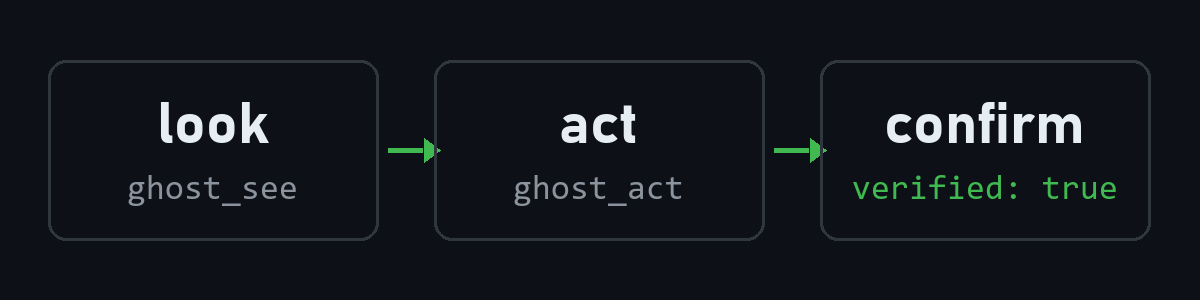
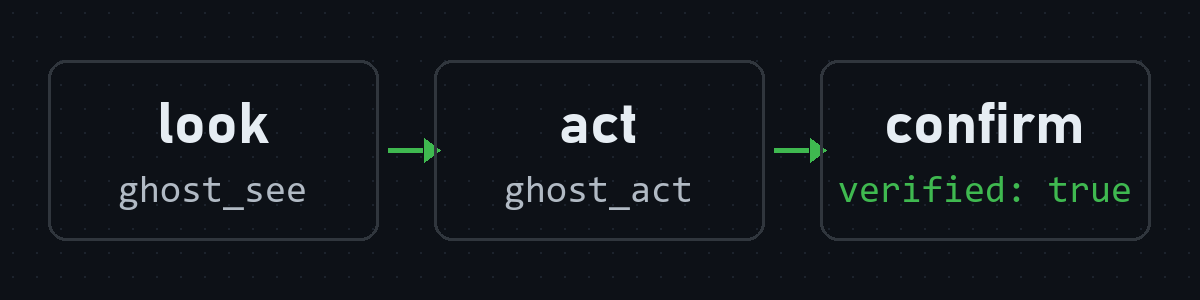
docs(readme): textured panels, hidden-desktop motif, white mark, contrast-stretched title

Changed region(s): [[0.6783, 0.57, 0.9558, 0.69], [0.4008, 0.57, 0.5858, 0.72], [0.0925, 0.6, 0.2775, 0.72]]

diff --git a/scripts/readme-art.py b/scripts/readme-art.py
@@ -10,7 +10,7 @@ The numbers on the proof card come from docs/background-mode.md and
 docs/benchmarks.md; change them there first.
 """
 from pathlib import Path
-from PIL import Image, ImageDraw, ImageFont
+from PIL import Image, ImageDraw, ImageFont, ImageOps
 
 ROOT = Path(__file__).resolve().parent.parent
 BG, BORDER = "#0d1117", "#30363d"
@@ -45,6 +45,35 @@ def mono(size):
     return first_font(["consola.ttf", "DejaVuSansMono.ttf"], size)
 
 
+GRID, DOT = 24, "#1c232d"
+
+
+def textured(w, h):
+    """The panel ground: GitHub dark with a faint dot grid, the texture every
+    piece of README art shares."""
+    im = Image.new("RGB", (w, h), BG)
+    d = ImageDraw.Draw(im)
+    for y in range(GRID // 2, h, GRID):
+        for x in range(GRID // 2, w, GRID):
+            d.rectangle((x, y, x + 1, y + 1), fill=DOT)
+    return im
+
+
+def glyph(size):
+    """The ghost from assets/icon.png, in white, without its square tile."""
+    icon = Image.open(ROOT / "assets/icon.png").convert("RGBA").resize((size, size), Image.LANCZOS)
+    mask = Image.new("L", icon.size, 0)
+    px, mp = icon.load(), mask.load()
+    for y in range(size):
+        for x in range(size):
+            r, g, b, a = px[x, y]
+            # The glyph is the blue part; the tile is near-black.
+            mp[x, y] = a if b > 120 and b > r + 40 else 0
+    white = Image.new("RGBA", icon.size, TEXT)
+    white.putalpha(mask)
+    return white.crop(mask.getbbox())
+
+
 def fit(draw, text, maker, size, width):
     """The largest font from `maker` at or below `size` that fits `width`."""
     while size > 10:
@@ -57,11 +86,19 @@ def fit(draw, text, maker, size, width):
 
 def banner():
     H = 560
-    im = Image.new("RGB", (W, H), BG)
+    im = textured(W, H)
     d = ImageDraw.Draw(im)
-    icon = Image.open(ROOT / "assets/icon.png").convert("RGBA").resize((136, 136), Image.LANCZOS)
-    im.paste(icon, (PAD - 12, PAD - 4), icon)
-    d.text((PAD + 150, PAD + 64), "Ghost", font=display(150), fill=TEXT, anchor="lm")
+    # The hidden desktop: a second window outline behind everything, offset
+    # and faint, where Ghost runs the apps it starts.
+    for dx, col in ((0, "#232b36"), (28, "#1a212b")):
+        x0, y0 = 690 + dx, 40 + dx
+        d.rounded_rectangle((x0, y0, x0 + 440, y0 + 300), radius=14, outline=col, width=3)
+        d.line((x0, y0 + 44, x0 + 440, y0 + 44), fill=col, width=3)
+        for k in range(3):
+            d.ellipse((x0 + 380 - 26 * k, y0 + 16, x0 + 392 - 26 * k, y0 + 28), outline=col, width=3)
+    mark = glyph(190)
+    im.paste(mark, (PAD, PAD + 70 - mark.height // 2), mark)
+    d.text((PAD + mark.width + 26, PAD + 64), "Ghost", font=display(150), fill=TEXT, anchor="lm")
     lines = ["AI agents use the apps on your computer,", "in the background."]
     f = fit(d, lines[0], light, 62, W - 2 * PAD)
     y = 268
@@ -84,7 +121,7 @@ def proof():
     lf = light(words)
     row_h = NUM + 20 + LINE * 2
     H = PAD * 2 + row_h * len(rows) + GAP * (len(rows) - 1)
-    im = Image.new("RGB", (W, H), BG)
+    im = textured(W, H)
     d = ImageDraw.Draw(im)
     big = display(NUM)
     top = PAD
@@ -128,15 +165,24 @@ def title_inset():
         while bottom + 1 < h and sum(f.getpixel((left + 3, bottom + 1))) < 60 and \
                 sum(f.getpixel((left + 3, bottom + 1))) != sum(f.getpixel((2, bottom + 1))):
             bottom += 1
-        crop = f.crop((left + 2, top, left + 2 + CROP_W, top + CROP_H))
+        # Contrast-stretched so the proof reads; the pixels are the capture's.
+        crop = ImageOps.autocontrast(f.crop((left + 2, top, left + 2 + CROP_W, top + CROP_H)), cutoff=1)
         zoom = crop.resize((CROP_W * SCALE, CROP_H * SCALE), Image.NEAREST)
         out = Image.new("RGB", (w, h + BAND), BG)
+        grid = textured(w, h + BAND)
         out.paste(f.crop((0, 0, w, bottom + 1)), (0, 0))
         y = bottom + 1 + (BAND - CROP_H * SCALE) // 2
         out.paste(zoom, (left, y))
         d = ImageDraw.Draw(out)
         d.rectangle((left - 1, y - 1, left + CROP_W * SCALE, y + CROP_H * SCALE), outline=BORDER)
         out.paste(f.crop((0, bottom + 1, w, h)), (0, bottom + 1 + BAND))
+        # The same dot grid wherever the frame shows bare panel ground.
+        bg = tuple(int(BG[i:i + 2], 16) for i in (1, 3, 5))
+        o, g = out.load(), grid.load()
+        for yy in range(out.height):
+            for xx in range(w):
+                if o[xx, yy] == bg:
+                    o[xx, yy] = g[xx, yy]
         frames.append(out)
     frames[0].save(ROOT / "assets/demo-stacked-title.gif", save_all=True, append_images=frames[1:],
                    duration=durations, loop=0, optimize=True)
@@ -147,16 +193,16 @@ def loop():
     steps in the same panel language."""
     steps = [("look", "ghost_see"), ("act", "ghost_act"), ("confirm", "verified: true")]
     H = 300
-    im = Image.new("RGB", (W, H), BG)
+    im = textured(W, H)
     d = ImageDraw.Draw(im)
     gap = 56
     box_w = (W - 2 * PAD - 2 * gap) // 3
-    word, code = display(58), mono(34)
+    word, code = display(58), mono(38)
     for i, (label, call) in enumerate(steps):
         x = PAD + i * (box_w + gap)
         d.rounded_rectangle((x, 60, x + box_w, H - 60), radius=18, outline=BORDER, width=3)
         d.text((x + box_w // 2, 125), label, font=word, fill=TEXT, anchor="mm")
-        d.text((x + box_w // 2, 190), call, font=code, fill=GREEN if i == 2 else MUTED, anchor="mm")
+        d.text((x + box_w // 2, 192), call, font=code, fill=GREEN if i == 2 else "#b1bac4", anchor="mm")
         if i < 2:
             ax = x + box_w + 10
             d.line((ax, H // 2, ax + gap - 22, H // 2), fill=GREEN, width=5)

diff --git a/README.md b/README.md
@@ -157,7 +157,8 @@ claude mcp add ghost -s user \
   -- "$HOME/.local/bin/ghost-mcp"
 ```
 
-The other clients take the full path to `ghost-mcp` in a JSON or TOML file.
+Below: Claude Desktop, Cursor, VS Code, Codex CLI, and Windsurf, Cline or any
+other stdio client. They take the full path to `ghost-mcp` in a JSON or TOML file.
 The examples use the Windows path; on Linux it is
 `/home/YOU/.local/bin/ghost-mcp`. Replace `YOU`, or print the exact path with
 the last item.
